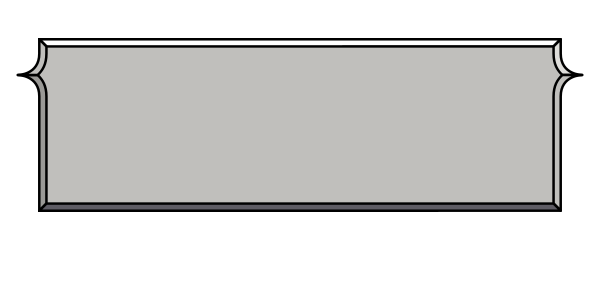
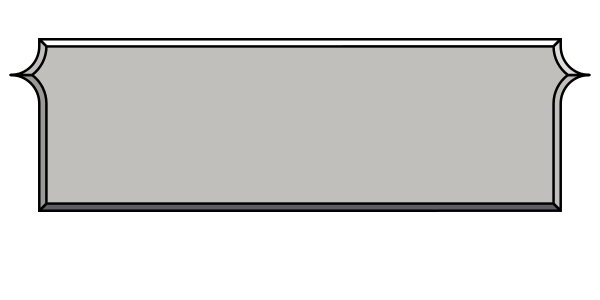
style cartes

Changed region(s): [[0.9, 0.18, 0.99, 0.33], [0.0, 0.15, 0.09, 0.33]]

diff --git a/assets/css/card.css b/assets/css/card.css
@@ -27,8 +27,10 @@
 .card {
   --width:63mm;
   --height:88mm;
-  --border:5mm;
-  --gap:2.5mm;
+  --border:3mm;
+  --footer:3mm;
+  --gap:3mm;
+  --step-gap:2.5mm;
 
     font-family: 'Zarathustra';
     font-weight: bold;
@@ -38,8 +40,23 @@
     height: var(--height);
     
     border-radius: 2mm;
+    overflow: hidden;
 
     background: black;
+}
+
+
+.card .content:after{
+    /* BLACK BORDER*/
+    content:' ';
+    display: block;
+    border:calc(var(--border) + .05mm) solid black;
+    width:calc(var(--width)  - .05mm  - var(--border) * 2);
+    height:calc(var(--height) - .05mm - var(--border) * 2);
+    position: absolute;
+    top:0;
+    left:0;
+    z-index:3;
 }
 
 
@@ -68,27 +85,21 @@
 
 
 .card .content {
-   width:calc(var(--width) - var(--border));
-   height:calc(var(--height) -  var(--border));
-    padding:calc(var(--border) / 2);
-    padding-bottom: 0;
     position: relative;
-    top:calc(var(--border) / 2);
-    left:calc(var(--border) / 2);
-
-    display: flex;
-    flex-direction: column;
-}
-
-.card .header {
-    flex-grow: 1;
+   width:var(--width);
+   height:var(--height);
+    padding: 0;
+    top:0;
+    left:0;
 }
 
 .card .title {
   position: relative;
   padding: 0 .2em;
-  font-family: 'Zarathustra';
   z-index:2;
+   width:calc(var(--width) - var(--border) * 2 - var(--gap) * 2);
+   top:calc(var(--border) + var(--gap));
+    left:calc(var(--border) + var(--gap));
 }
 
 .card .title:after {
@@ -97,8 +108,8 @@
 }
 
 .card .type {
-    left:1.5mm;
-    top:0.5mm;
+    left:7.5mm;
+    top:6.5mm;
     position:relative;
     font-size: .6em;
     z-index: 2;
@@ -142,16 +153,20 @@
 
 .card .footer {
     display: flex;
-    font-family: sans;
+    font-family: 'Archivo Narrow';
     font-weight: normal;
-    text-transform: uppercase;
+    text-transform: ;
     color: white;
     background: black;
     justify-content: space-between;
-    font-size: .5em;
-    padding-top: .5em;
-    margin-top:var(--gap);
+    font-size: .6em;
     z-index: 1;
+    position: absolute;
+    padding-top: .2em;
+    height: var(--footer);
+    width:calc(var(--width) - var(--border) * 2);
+    bottom:var(--border);
+    left:var(--border);
 }
 
 
@@ -226,10 +241,17 @@
 /***************************************/
 
 .card .steps {
+    position: absolute;
     display: flex;
     flex-direction: column;
-    gap:var(--gap);
+    gap:var(--step-gap);
     width: 66%;
+    
+   --w: calc(var(--width) - var(--border) * 2 - var(--gap) * 2);
+   width:calc(var(--w) * .7);
+   bottom:calc(var(--border) + var(--footer) + var(--gap));
+   left:calc(var(--border) + var(--gap));
+
   
 }
 

diff --git a/assets/css/font.css b/assets/css/font.css
@@ -16,6 +16,20 @@
 
 }
 
+
+
+@font-face {
+    font-family: 'Archivo Narrow';
+    src: url('../font/archivo_narrow_medium-webfont.woff2') format('woff2'),
+        url('../font/archivo_narrow_medium-webfont.woff') format('woff');
+    font-weight: bold;
+    font-style: normal;
+
+}
+
+
+
+
 @font-face {
     font-family: 'FreeMono';
     src: url('../font/FreeMono.woff2') format('woff2'),

diff --git a/_includes/card.html b/_includes/card.html
@@ -35,7 +35,7 @@
       {% endfor %}
   </div>
     <div class="footer">
-    <span class="id">{{edition}} ({{version}}) {{number}}</span><span>BattleFight 2025</span>
+    <span class="id">{{edition}}-{{number}} ({{version}})</span><span>BattleFight 2025</span>
     </div>
   </div>
 </div>
